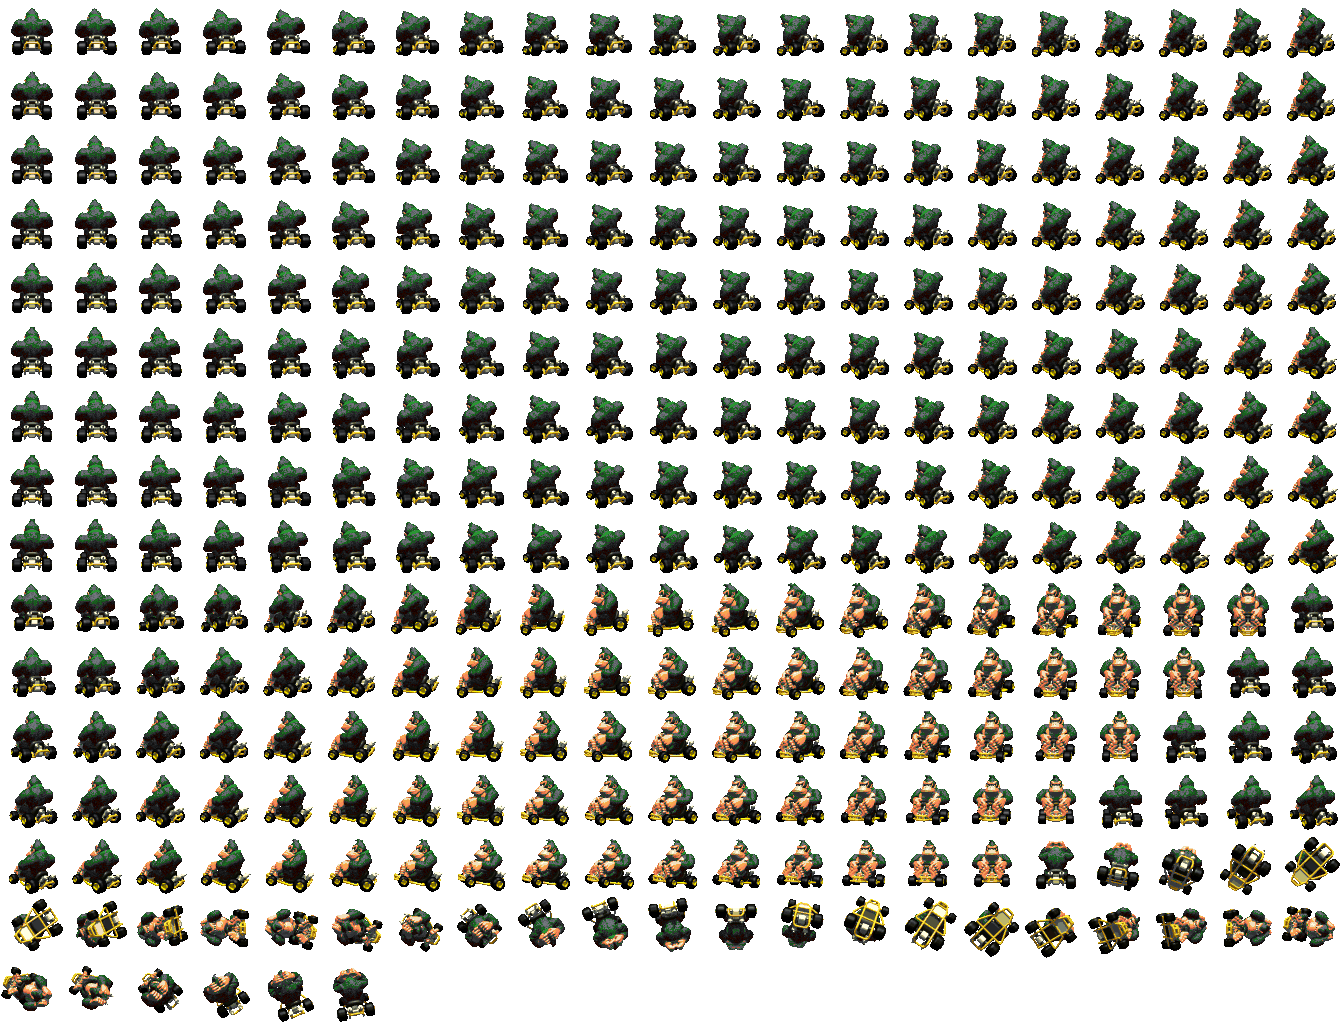
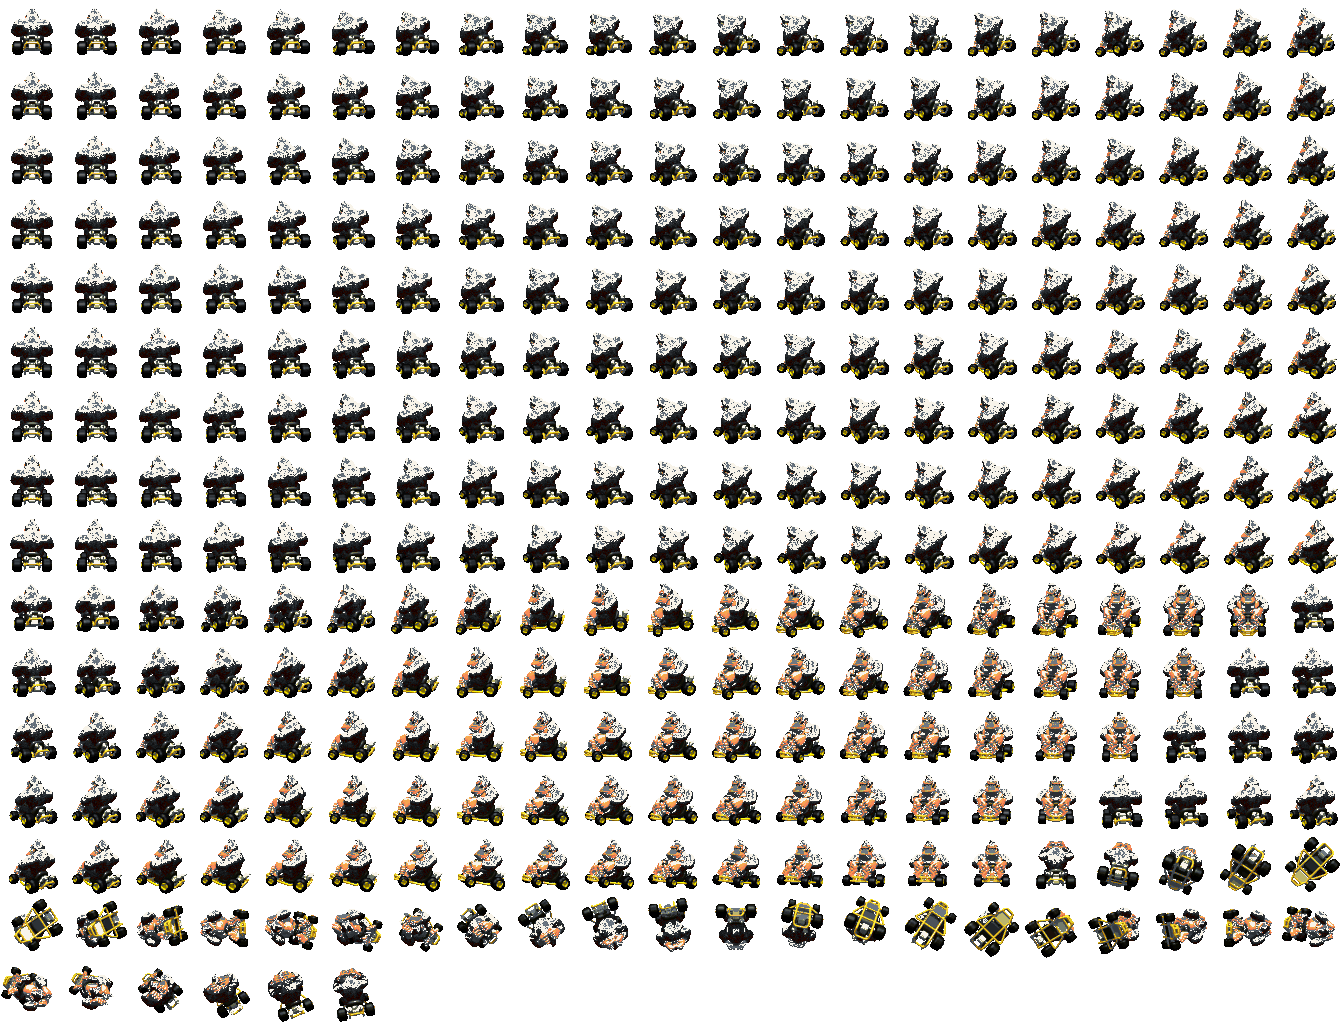
fix(race): ensure 3D Ghibli drivers default across all race tracks and battle arenas

diff --git a/src/scenes/minigames/race/main.js b/src/scenes/minigames/race/main.js
@@ -62,7 +62,11 @@ let autopilot = params.has('autopilot');
 // Link settings, applied and saved like their keys: ?3d=3d|2d (3), ?graphics=240|480|960|native (G: 240 = 1x N64
 // textures, 480 = 2x, 960 = 4x), ?jump=jump|glue (J), ?showphysics=true|false (P, below)
 const URL_GRAPHICS = { 240: '1x', 480: '2x', 960: '4x', native: 'native' };
-if (params.has('3d')) { if (['3d', 'true', '1', 'on'].includes(params.get('3d'))) localStorage.setItem('mk64wii3d', '1'); else localStorage.removeItem('mk64wii3d'); }
+if (params.has('3d')) {
+  if (['3d', 'true', '1', 'on'].includes(params.get('3d'))) localStorage.setItem('mk64wii3d', '1');
+  else if (['0', 'false', 'off', '2d'].includes(params.get('3d'))) localStorage.setItem('mk64wii3d', '0');
+}
+const is3DEnabled = () => localStorage.getItem('mk64wii3d') !== '0' && localStorage.getItem('mk64wii3d') !== 'false';
 if (URL_GRAPHICS[params.get('graphics')]) HD.setPreset(URL_GRAPHICS[params.get('graphics')]);
 if (['jump', 'jumps', 'glue'].includes(params.get('jump'))) { PHYSICS.glue = params.get('jump') === 'glue'; localStorage.setItem('kartPhysics', PHYSICS.glue ? 'glue' : 'jumps'); }
 const th = (trackDef || TRACKS[0]).theme;
@@ -285,11 +289,11 @@ function setup(count = battle ? 4 : 8) {   // count: karts on the grid (8 for 1P
   // func_8005995C: a time trial hands player 1 a mushroom twice more once it is used, i.e. three mushrooms
   if (timeTrial) items.give(player, 'triple_mushroom');
   startCountdown();
-  if (localStorage.getItem('mk64wii3d')) setWii3D(true);
+  if (is3DEnabled()) setWii3D(true);
 }
 // Wii 3D karts + Lakitu (key 3) on / off; the choice is saved so later races start the same way
 function setWii3D(on) {
-  if (on) localStorage.setItem('mk64wii3d', '1'); else localStorage.removeItem('mk64wii3d');
+  if (on) localStorage.setItem('mk64wii3d', '1'); else localStorage.setItem('mk64wii3d', '0');
   if (!on) { for (const k of karts) k.set3D(null); track.setShadowCatchers(false); lakitu.set3D(null); showRes('KART: MK64 SPRITE'); return; }
   // the sprites (and their blob shadows) stay hidden while the models load, so a 3D race never shows them first
   for (const k of karts) if (!k.model) { k.mesh.children.find(c => c.isSprite).visible = false; k.mesh.userData.setBlob(false); }
@@ -866,7 +870,8 @@ function confirmChar() {
   localStorage.setItem('mk64char', c);
   snd('okClicked');
   leaving = true;   // let SOUND_MENU_OK_CLICKED play before the page reloads into the race
-  setTimeout(() => { location.search = `?track=${selCourse}&char=${c}&cc=${CC_ROWS[ccSel].replace('cc', '')}&mode=${PMODES[pcount][pmode]}${pcount ? `&players=${pcount + 1}` : ''}`; }, 500);
+  const mode3d = is3DEnabled() ? '1' : '0';
+  setTimeout(() => { location.search = `?track=${selCourse}&char=${c}&cc=${CC_ROWS[ccSel].replace('cc', '')}&mode=${PMODES[pcount][pmode]}${pcount ? `&players=${pcount + 1}` : ''}&3d=${mode3d}`; }, 500);
 }
 function backFromChar() {
   snd('back');
@@ -1062,7 +1067,7 @@ function setupOnline() {
   banner.textContent = '';
   items.reset();
   startCountdown();
-  if (localStorage.getItem('mk64wii3d')) setWii3D(true);
+  if (is3DEnabled()) setWii3D(true);
 }
 function sendPose() {
   sendKartPose(player);
@@ -1227,7 +1232,8 @@ addEventListener('keydown', e => {
 
   // Standard PC Menu / Exit: Escape (or M)
   if ((e.code === 'Escape' || e.code === 'KeyM') && trackDef) {
-    location.search = `?menu=course&from=${trackDef.id}&mode=${raceMode}${ccParam ? `&cc=${ccParam}` : ''}${PLAYERS_WANTED ? `&players=${PLAYERS_WANTED}` : ''}`;
+    const mode3d = is3DEnabled() ? '1' : '0';
+    location.search = `?menu=course&from=${trackDef.id}&mode=${raceMode}${ccParam ? `&cc=${ccParam}` : ''}${PLAYERS_WANTED ? `&players=${PLAYERS_WANTED}` : ''}&3d=${mode3d}`;
     return;
   }
   if (e.code === 'KeyM' && !trackDef) {
@@ -1244,7 +1250,7 @@ addEventListener('keydown', e => {
   if (e.code === 'Digit3' && !e.repeat && !trackDef && [titleEl, gameEl, menuEl, charEl].includes(curScreen)) {
     const on = !title3d;
     toggleTitle3D();
-    if (on) { localStorage.setItem('mk64wii3d', '1'); HD.setPreset('4x'); } else localStorage.removeItem('mk64wii3d');
+    if (on) { localStorage.setItem('mk64wii3d', '1'); HD.setPreset('4x'); } else localStorage.setItem('mk64wii3d', '0');
   }
   if (e.code === 'Digit3' && !e.repeat && player) setWii3D(!player.model);
 

diff --git a/tests/race/mariokart64.test.ts b/tests/race/mariokart64.test.ts
@@ -94,4 +94,17 @@ describe('MarioKart64JS Core Subsystem Tests', () => {
     expect(engine).toBeInstanceOf(TotoroKartEngine);
     expect(RickshawRaceEngine).toBe(TotoroKartEngine);
   });
+
+  it('supports Satsuki and Totoro across battle arenas and Grand Prix circuits', () => {
+    const battleArenaIds = ['big-donut', 'block-fort', 'double-deck', 'skyscraper'];
+    for (const arenaId of battleArenaIds) {
+      const arena = TRACKS.find((t: any) => t.id === arenaId);
+      expect(arena).toBeDefined();
+      expect(arena?.battle).toBe(true);
+    }
+
+    // Verify Satsuki and Totoro engine scales
+    expect(ccSpeedScale(CC_BATTLE, 'satsuki')).toBeGreaterThan(0);
+    expect(ccSpeedScale(CC_BATTLE, 'totoro')).toBeGreaterThan(0);
+  });
 });

diff --git a/src/scenes/minigames/race/TotoroKartEngine.ts b/src/scenes/minigames/race/TotoroKartEngine.ts
@@ -87,7 +87,7 @@ export class TotoroKartEngine {
 
       // Totoro Kart iframe
       const iframe = document.createElement('iframe');
-      const raceUrl = trackId ? `/race.html?track=${encodeURIComponent(trackId)}` : '/race.html';
+      const raceUrl = trackId ? `/race.html?track=${encodeURIComponent(trackId)}&3d=1` : '/race.html?3d=1';
       iframe.src = raceUrl;
       iframe.style.width = '100%';
       iframe.style.height = '100%';

diff --git a/src/main.ts b/src/main.ts
@@ -9,7 +9,7 @@ import './style.css';
 
 // Instant standalone 3D race redirect if URL contains ?race or #race
 if (typeof window !== 'undefined' && (window.location.search.includes('race') || window.location.hash.includes('race'))) {
-  window.location.href = '/race.html';
+  window.location.href = '/race.html?3d=1';
 }
 
 initTitleSlideshow();

diff --git a/tools/character-pipeline/build_2d_karts.py b/tools/character-pipeline/build_2d_karts.py
@@ -1,60 +1,95 @@
 import json
 from PIL import Image
 
+import json
+from PIL import Image
+
 def build_2d_karts():
-    # 1. Satsuki: recolor Mario (1344x1024)
+    # 1. Satsuki: transform Mario into genuine Satsuki (1344x1024, 21x16 grid of 64x64 cells)
     mario = Image.open('public/mk64/karts/mario.png').convert('RGBA')
-    sat_data = []
-    for r, g, b, a in mario.getdata():
-        if a > 30:
-            # Mario Red (Hat & Shirt) -> Yellow shirt / orange skirt
-            if r > 100 and g < 75 and b < 75:
-                # Top half (hat/head) is black hair, middle is yellow shirt
-                # Since we don't have per-pixel Y easily in flat data, let's map red:
-                # If bright red: make bright yellow/orange
-                factor = r / 255.0
-                sat_data.append((int(245 * factor), int(190 * factor), int(35 * factor), a))
-            # Mario Blue Overalls -> Bright Orange
-            elif b > 80 and r < 80:
-                factor = b / 255.0
-                sat_data.append((int(235 * factor), int(96 * factor), int(32 * factor), a))
-            # Mario Brown mustache / hair -> Jet black
-            elif r < 100 and g < 70 and b < 50:
-                sat_data.append((int(r * 0.3), int(g * 0.3), int(b * 0.3), a))
+    width, height = mario.size
+    mario_pixels = mario.load()
+    sat_img = Image.new('RGBA', (width, height))
+    sat_pixels = sat_img.load()
+
+    for y in range(height):
+        cy = y % 64
+        for x in range(width):
+            r, g, b, a = mario_pixels[x, y]
+            if a <= 30:
+                sat_pixels[x, y] = (r, g, b, a)
+                continue
+
+            # Head region (hair and face)
+            if cy <= 27:
+                # Mario Red Hat -> Satsuki Jet Black Hair
+                if r > 90 and g < 75 and b < 75:
+                    factor = r / 255.0
+                    sat_pixels[x, y] = (int(25 * factor), int(25 * factor), int(32 * factor), a)
+                # Mario Brown Mustache / Sideburns -> Fair Skin (eliminate mustache)
+                elif r < 120 and g < 85 and b < 70 and cy >= 19:
+                    sat_pixels[x, y] = (245, 198, 172, a)
+                else:
+                    sat_pixels[x, y] = (r, g, b, a)
+            # Torso region (Satsuki's iconic yellow shirt)
+            elif cy <= 43:
+                # Mario Red Shirt -> Bright Sunny Yellow
+                if r > 90 and g < 80 and b < 80:
+                    factor = r / 255.0
+                    sat_pixels[x, y] = (int(252 * factor), int(220 * factor), int(42 * factor), a)
+                # Overalls straps -> Vibrant Orange
+                elif b > 75 and r < 85:
+                    factor = b / 255.0
+                    sat_pixels[x, y] = (int(240 * factor), int(105 * factor), int(30 * factor), a)
+                else:
+                    sat_pixels[x, y] = (r, g, b, a)
+            # Lower body / overalls (Satsuki's orange pinafore / skirt)
             else:
-                sat_data.append((r, g, b, a))
-        else:
-            sat_data.append((r, g, b, a))
-            
-    satsuki_img = Image.new('RGBA', mario.size)
-    satsuki_img.putdata(sat_data)
-    satsuki_img.save('public/mk64/karts/satsuki.png')
+                if b > 75 and r < 85:
+                    factor = b / 255.0
+                    sat_pixels[x, y] = (int(238 * factor), int(100 * factor), int(28 * factor), a)
+                elif r > 95 and g < 80 and b < 80:
+                    factor = r / 255.0
+                    sat_pixels[x, y] = (int(252 * factor), int(218 * factor), int(40 * factor), a)
+                else:
+                    sat_pixels[x, y] = (r, g, b, a)
+
+    sat_img.save('public/mk64/karts/satsuki.png')
     print("Created public/mk64/karts/satsuki.png")
 
-    # 2. Totoro: recolor Donkey Kong (1344x1024)
+    # 2. Totoro: transform Donkey Kong into genuine Totoro (1344x1024)
     dk = Image.open('public/mk64/karts/donkeykong.png').convert('RGBA')
-    tot_data = []
-    for r, g, b, a in dk.getdata():
-        if a > 30:
-            # DK Red Tie -> Leaf green
-            if r > 120 and g < 50 and b < 50:
-                tot_data.append((int(45 * (r/255)), int(160 * (r/255)), int(55 * (r/255)), a))
-            # DK Chest / Muzzle (light tan) -> Cream white belly
-            elif r > 130 and g > 100 and b > 70 and r - b < 70:
-                tot_data.append((int(r * 1.05), int(g * 1.05), int(b * 1.15), a))
-            # DK Brown Fur -> Forest Grey
-            elif r > 40 and g < 80:
-                # Desaturate to neutral / cool slate grey
+    dk_pixels = dk.load()
+    tot_img = Image.new('RGBA', (width, height))
+    tot_pixels = tot_img.load()
+
+    for y in range(height):
+        cy = y % 64
+        for x in range(width):
+            r, g, b, a = dk_pixels[x, y]
+            if a <= 30:
+                tot_pixels[x, y] = (r, g, b, a)
+                continue
+
+            # DK Red Tie -> Totoro Cream White Belly
+            if r > 115 and g < 60 and b < 60:
+                tot_pixels[x, y] = (248, 244, 234, a)
+            # DK Chest / Muzzle (light tan)
+            elif r > 120 and g > 90 and b > 65 and r - b < 75:
+                if cy < 25:
+                    # Head / muzzle area -> Slate Grey face
+                    tot_pixels[x, y] = (110, 120, 130, a)
+                else:
+                    # Chest / belly -> Cream White Belly
+                    tot_pixels[x, y] = (248, 244, 234, a)
+            # DK Brown Fur -> Ghibli Slate Grey Fur
+            elif r > 35 and g < 85:
                 lum = int(0.299 * r + 0.587 * g + 0.114 * b)
-                tot_data.append((int(lum * 1.0), int(lum * 1.05), int(lum * 1.1), a))
+                tot_pixels[x, y] = (int(lum * 0.95), int(lum * 1.05), int(lum * 1.15), a)
             else:
-                tot_data.append((r, g, b, a))
-        else:
-            tot_data.append((r, g, b, a))
-            
-    totoro_img = Image.new('RGBA', dk.size)
-    totoro_img.putdata(tot_data)
-    totoro_img.save('public/mk64/karts/totoro.png')
+                tot_pixels[x, y] = (r, g, b, a)
+
+    tot_img.save('public/mk64/karts/totoro.png')
     print("Created public/mk64/karts/totoro.png")
 
     # 3. Update manifest.json
@@ -73,6 +108,9 @@ def build_2d_karts():
     with open(manifest_path, 'w') as f:
         json.dump(manifest, f, indent=2)
     print("Updated public/mk64/karts/manifest.json")
+
+if __name__ == '__main__':
+    build_2d_karts()
 
 if __name__ == '__main__':
     build_2d_karts()

diff --git a/KART_GAME_CONTEXT.md b/KART_GAME_CONTEXT.md
@@ -15,8 +15,8 @@ The 3D kart racing minigame in this project is powered by **Totoro Kart** (forme
 │ • Core Runtime: Three.js 0.186.1 (WebGLRenderer, PCF Shadows, Stencil) │
 │ • Resolution / CAS Sharpening: 1× (240p), 2× (480p), 4× (960p), Native │
 │ • Dual Kart Presentation:                                              │
-│     - Retro 2.5D Billboard Sprites (authentic N64 64×64 texture atlas) │
-│     - Wii 3D Standard Karts (toggle via '3' key or ?3d=3d URL flag)    │
+│     - Wii 3D Standard Karts (Default; Satsuki & Totoro 3D high-poly)   │
+│     - Retro 2.5D Billboard Sprites (toggle via '3' key or ?3d=0)       │
 │ • Courses: All 16 Grand Prix circuits across 4 cups + 4 Battle Arenas   │
 │ • Drivers: 8 classic drivers across Small, Medium, Large weight classes│
 │ • Item Engine: Full 15-item inventory with authentic roulette RNG      │
@@ -168,8 +168,8 @@ Defined in [`src/scenes/minigames/race/kart.js`](file:///Users/tawsifx/Desktop/d
 ## 8. Visual & Rendering Pipeline
 
 1. **Dual Character Representation:**
-   * **Retro 2.5D Mode (Default):** Pre-rendered 64×64 billboard sprites sampled dynamically based on the viewing angle of the chase camera (`kartSpriteFrame`).
-   * **Wii 3D Mode:** Pressing `3` replaces all driver sprites with 3D Collada (`.dae`) models, adds real-time PCF shadow-map projection onto track surfaces, dynamic front tire steering lock (`0.45 rad`), and velocity-based wheel spin.
+   * **Wii 3D Mode (Default):** High-fidelity 3D Collada (`.dae`) models for all drivers (including custom Ghibli drivers Satsuki Kusakabe and Totoro), real-time PCF shadow-map projection onto track surfaces, dynamic front tire steering lock (`0.45 rad`), and velocity-based wheel spin. Enabled by default across all 16 Grand Prix circuits and 4 Battle Arenas (`?3d=1`), with seamless persistence.
+   * **Retro 2.5D Mode:** Pre-rendered 64×64 billboard sprites sampled dynamically based on the viewing angle of the chase camera (`kartSpriteFrame`), toggleable via key `3`. Satsuki and Totoro feature dedicated Ghibli pixel-art sprites (no Mario or Donkey Kong sprite artifacts).
 2. **Resolution & Sharpness Presets (Key `G`):**
    * `1x` (240p): Authentic pixelated N64 texture sampling.
    * `2x` (480p): Contrast Adaptive Sharpening (CAS) applied via [`src/scenes/minigames/race/sharpen.js`](file:///Users/tawsifx/Desktop/dhaka-date-rpg/src/scenes/minigames/race/sharpen.js).
